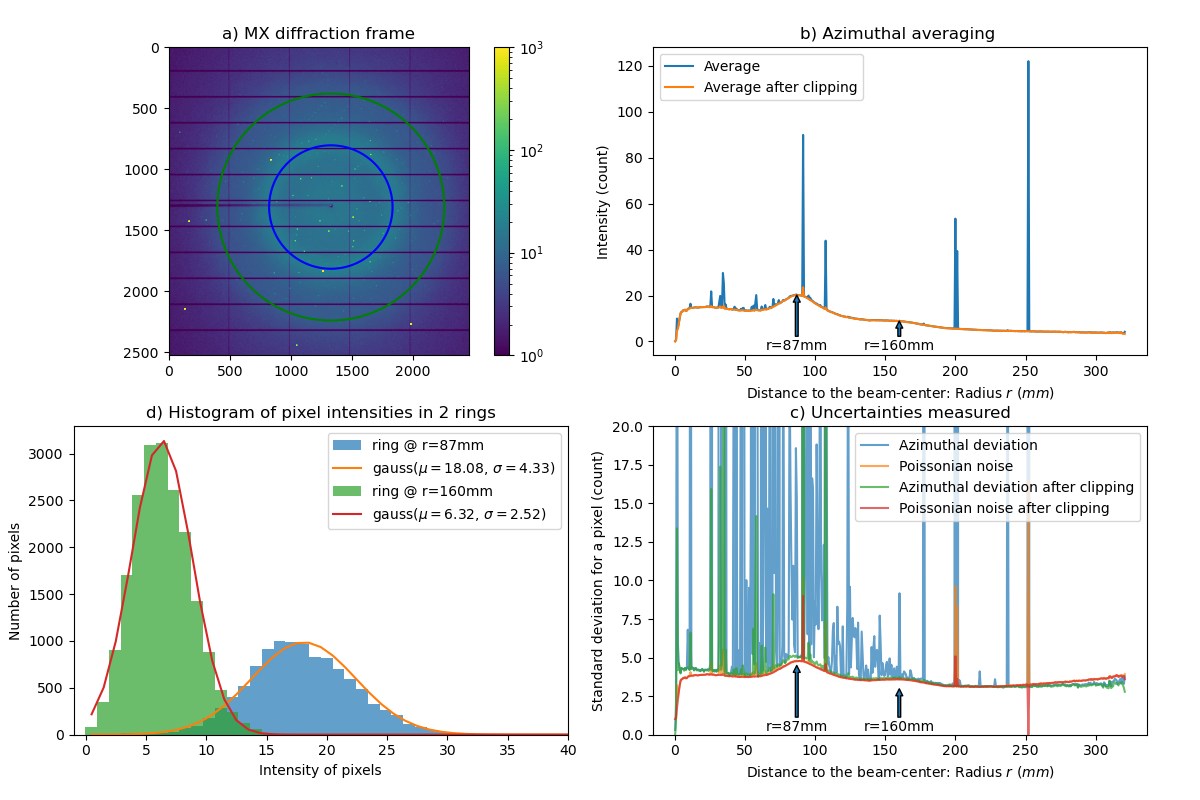
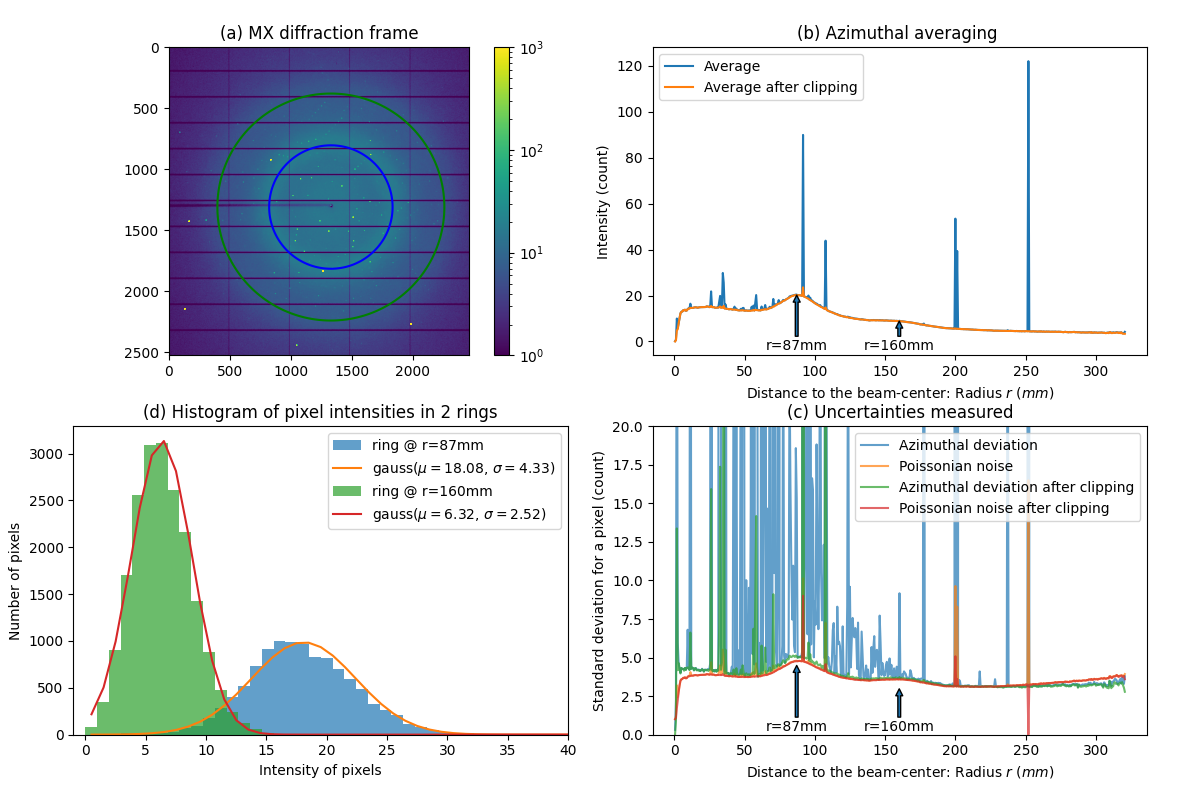
use (a) to label images

diff --git a/fig2.py b/fig2.py
@@ -22,7 +22,7 @@ fig.tight_layout(pad=3.0)
 ln = LogNorm(1, 1000)#, fimg.data.max())
 #ln = Normalize(0, 1000)#, fimg.data.max())
 mimg = ax[0,0].imshow(fixed, norm=ln, interpolation="hanning", cmap="viridis")
-ax[0,0].set_title("a) MX diffraction frame")
+ax[0,0].set_title("(a) MX diffraction frame")
 
 colorbar(mimg, ax=ax[0,0])
 p0 = ai.sigma_clip_ng(fimg.data, npt, unit="r_mm", method=method, error_model="poisson", thres=0, max_iter=0,)
@@ -34,7 +34,7 @@ ax[0,1].plot(a1.radial, a1.intensity, label=r"Average after clipping")
 ax[0,1].legend()
 ax[0,1].set_xlabel("Distance to the beam-center: "+a0.unit.label)
 ax[0,1].set_ylabel("Intensity (count)")
-ax[0,1].set_title("b) Azimuthal averaging ")
+ax[0,1].set_title("(b) Azimuthal averaging ")
 
 ax[1,1].plot(a0.radial, a0.std, alpha=0.7,label=r"Azimuthal deviation")
 ax[1,1].plot(p0.radial, p0.std, alpha=0.7,label=r"Poissonian noise")
@@ -43,12 +43,12 @@ ax[1,1].plot(p0.radial, p1.std, alpha=0.7,label=r"Poissonian noise after clippin
 ax[1,1].set_xlabel("Distance to the beam-center: "+a0.unit.label)
 ax[1,1].set_ylabel("Standard deviation for a pixel (count)")
 ax[1,1].set_ylim(0, 20)
-ax[1,1].set_title("c) Uncertainties measured")
+ax[1,1].set_title("(c) Uncertainties measured")
 ax[1,1].legend()
 
 ax[1,0].set_ylabel("Number of pixels")
 ax[1,0].set_xlabel("Intensity of pixels")
-ax[1,0].set_title(f"d) Histogram of pixel intensities in {len(targets)} rings")
+ax[1,0].set_title(f"(d) Histogram of pixel intensities in {len(targets)} rings")
 
 # rings
 r = ai.array_from_unit(unit="r_mm")
@@ -93,4 +93,4 @@ ax[1,0].legend()
 fig.show()
 fig.savefig("fig2.eps")
 fig.savefig("fig2.png")
-input("Finished !")
+#input("Finished !")
